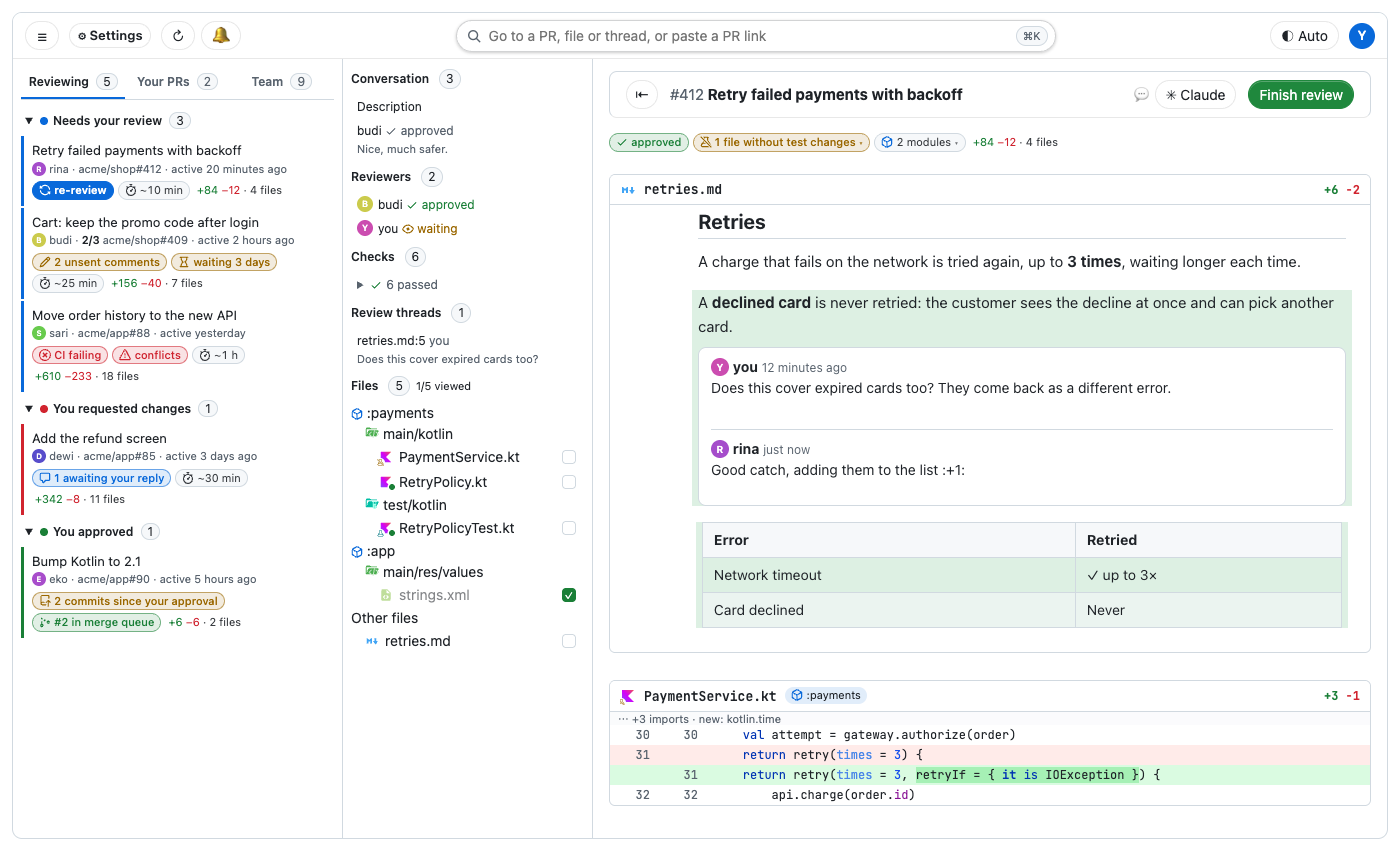
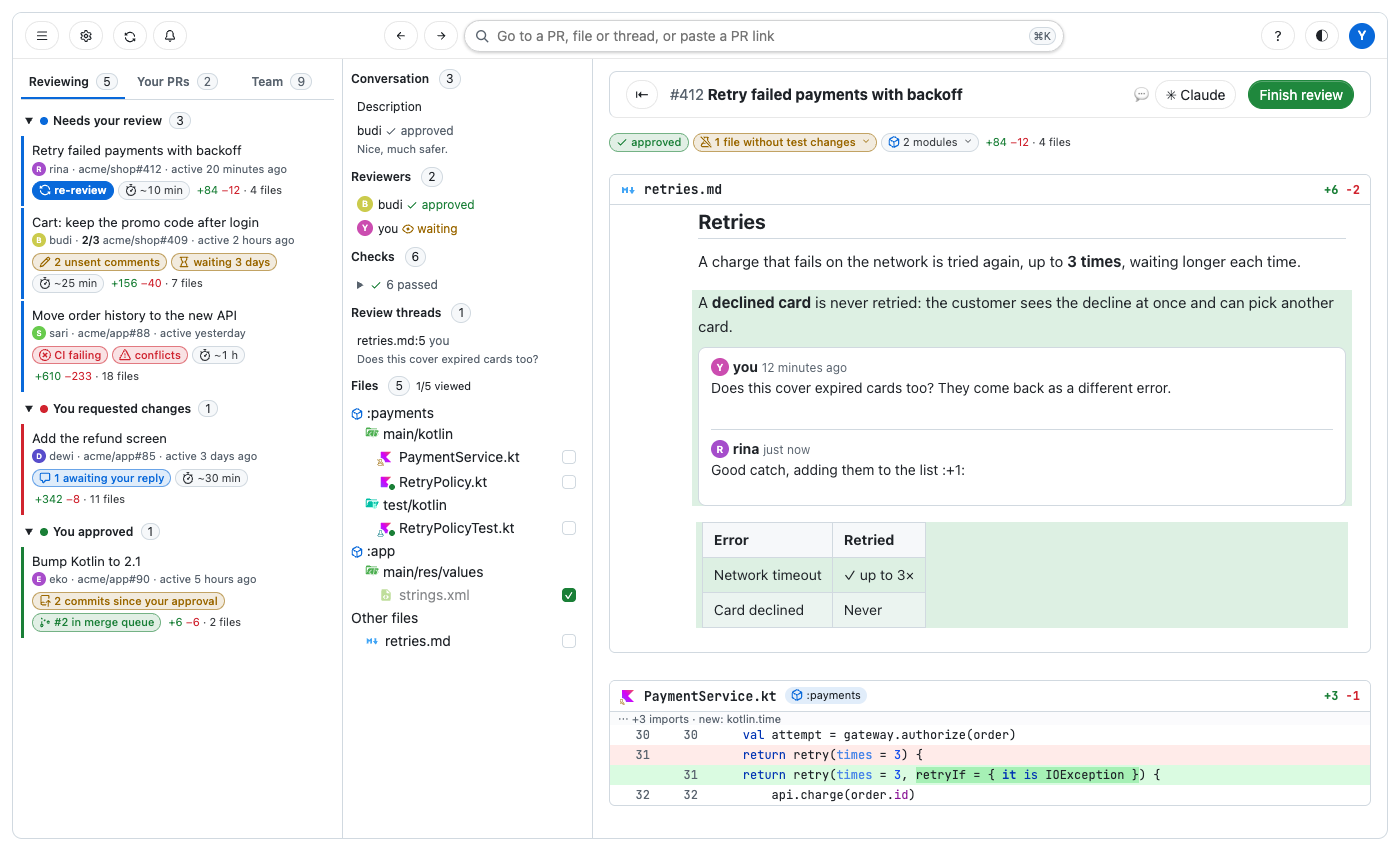
README pictures: the current title bar, dropdowns and menu buttons

diff --git a/app/src/demos.tsx b/app/src/demos.tsx
@@ -3,7 +3,7 @@ import { highlightCode, splitLines } from './highlight.ts';
 import { md } from './markdown.ts';
 import { FileIcon, ModuleIcon } from './shortcuts.tsx';
 import { folderIcon } from './fileicons.ts';
-import { CheckMark, Tg } from './tags.tsx';
+import { CheckMark, Octicon, Tg } from './tags.tsx';
 import { ThemeThumb } from './themecard.tsx';
 import { BUILTIN_THEMES } from './themes.ts';
 import { parseDoc } from './docs.ts';
@@ -669,23 +669,28 @@ SCENES.app = {
     body: (
       <div class="scene-app">
         <nav class="top">
-          <button>☰</button>
-          <a class="nav-btn">⚙ Settings</a>
+          <button><Octicon name="three-bars" /></button>
+          <a class="nav-btn"><Octicon name="gear" /></a>
           <div class="top-actions">
-            <button><span>↻</span></button>
-            <button>🔔</button>
+            <button><span><Octicon name="sync" /></span></button>
+            <button><Octicon name="bell" /></button>
           </div>
           <span class="spacer" />
-          <div class="cmd">
-            <svg class="cmd-icon" viewBox="0 0 16 16" width="14" height="14" aria-hidden="true">
-              <circle cx="7" cy="7" r="5" fill="none" stroke="currentColor" stroke-width="1.6" />
-              <path d="M11 11l3.5 3.5" stroke="currentColor" stroke-width="1.6" stroke-linecap="round" />
-            </svg>
-            <kbd class="cmd-kbd">⌘K</kbd>
-            <input placeholder="Go to a PR, file or thread, or paste a PR link" />
-          </div>
+          <span class="nav-go">
+            <button class="nav-hist"><Octicon name="arrow-left" /></button>
+            <button class="nav-hist"><Octicon name="arrow-right" /></button>
+            <div class="cmd">
+              <svg class="cmd-icon" viewBox="0 0 16 16" width="14" height="14" aria-hidden="true">
+                <circle cx="7" cy="7" r="5" fill="none" stroke="currentColor" stroke-width="1.6" />
+                <path d="M11 11l3.5 3.5" stroke="currentColor" stroke-width="1.6" stroke-linecap="round" />
+              </svg>
+              <kbd class="cmd-kbd">⌘K</kbd>
+              <input placeholder="Go to a PR, file or thread, or paste a PR link" />
+            </div>
+          </span>
           <span class="spacer" />
-          <button>◐ Auto</button>
+          <button>?</button>
+          <button class="theme-btn">◐</button>
           <span class="scene-avatar">Y</span>
         </nav>
         <div class="scene-app-body">
